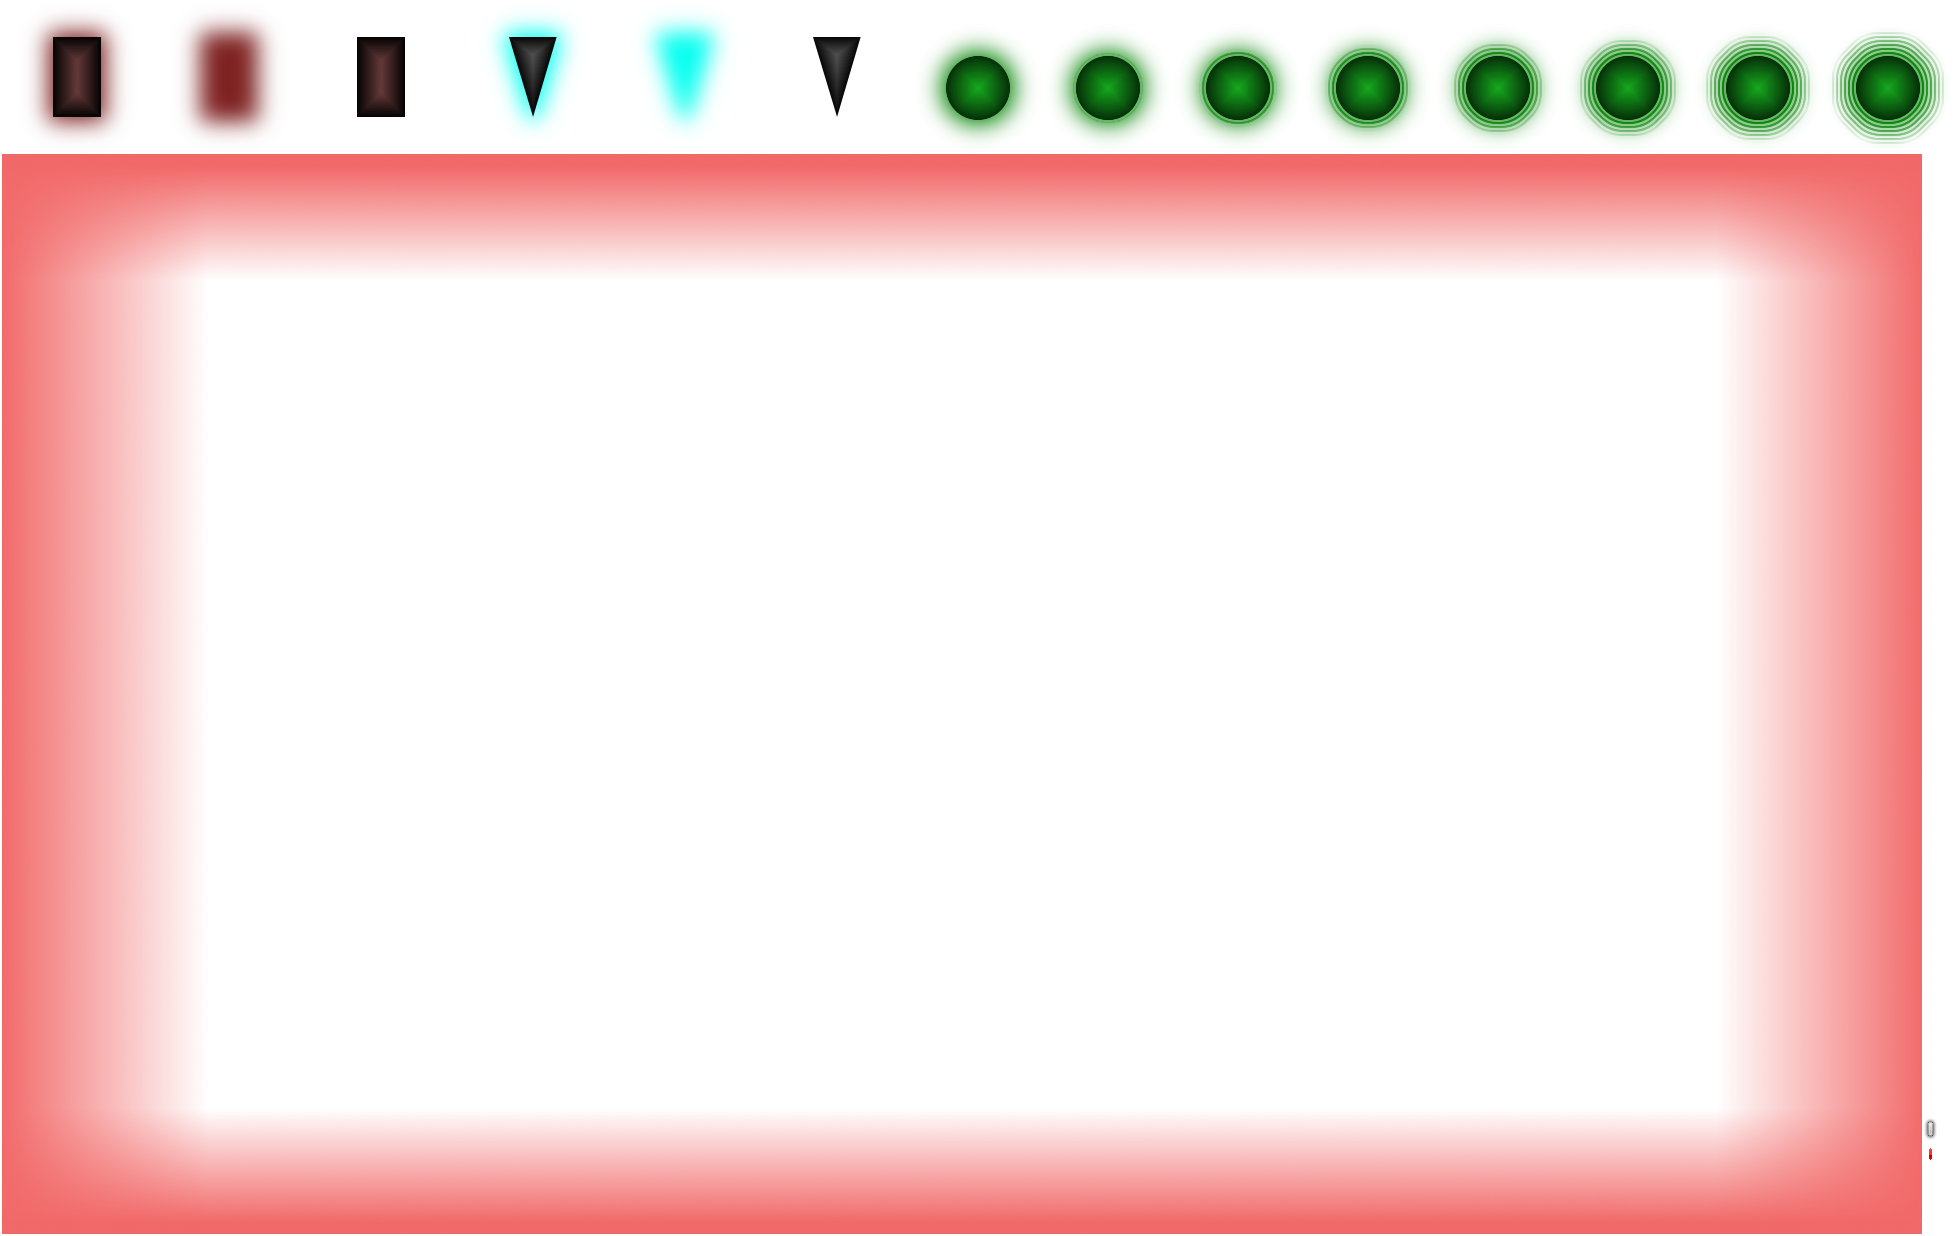
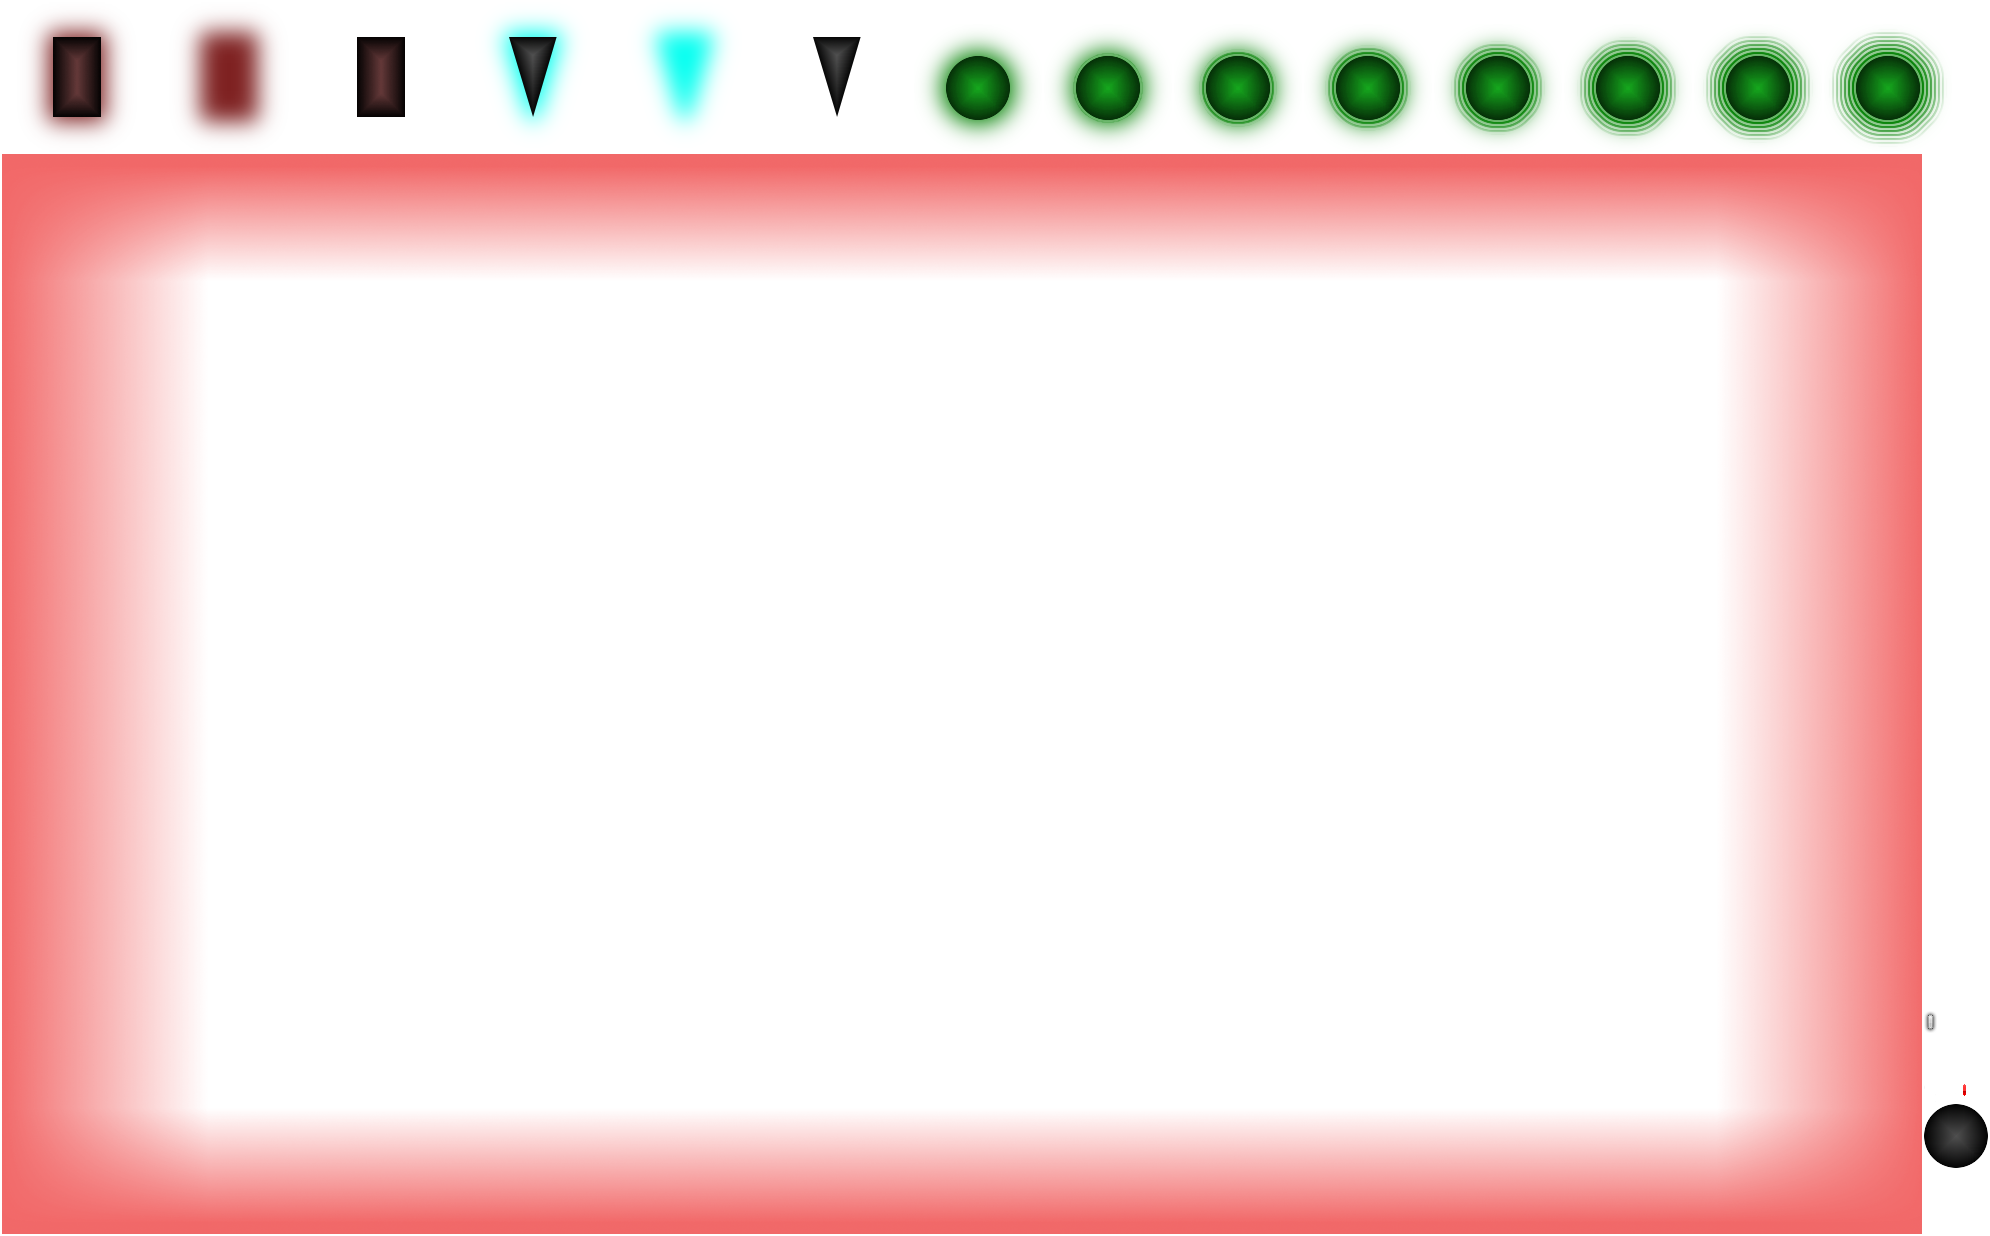
more skills

diff --git a/core/src/de/dakror/burst/game/entity/creature/Creature.java b/core/src/de/dakror/burst/game/entity/creature/Creature.java
@@ -12,7 +12,6 @@ import de.dakror.burst.Burst;
 import de.dakror.burst.game.Game;
 import de.dakror.burst.game.entity.Entity;
 import de.dakror.burst.game.skill.Skill;
-import de.dakror.burst.game.skill.TargetedSkill;
 import de.dakror.burst.util.MultiParticleEffectPool;
 
 /**
@@ -56,23 +55,8 @@ public abstract class Creature extends Entity
 			@Override
 			public boolean mouseMoved(InputEvent event, float x, float y)
 			{
-				if (Burst.smartCast && bump.contains(x, getHeight() - y)) activateSelectedSkill();
+				if (Burst.smartCast && bump.contains(x, getHeight() - y)) Game.player.activateSelectedSkill(Creature.this);
 				return false;
-			}
-			
-			void activateSelectedSkill()
-			{
-				Skill selectedSkill = Game.player.getSelectedSkill();
-				if (selectedSkill != null)
-				{
-					if (selectedSkill.canBeCastOn(Creature.this))
-					{
-						if (selectedSkill instanceof TargetedSkill) ((TargetedSkill) selectedSkill).setTarget(Creature.this);
-						
-						Game.player.setSkill(selectedSkill);
-						Game.player.setSelectedSkill(null);
-					}
-				}
 			}
 			
 			@Override
@@ -80,7 +64,7 @@ public abstract class Creature extends Entity
 			{
 				if (bump.contains(x, y))
 				{
-					if (Game.player.getSelectedSkill() != null) activateSelectedSkill();
+					if (Game.player.getSelectedSkill() != null) Game.player.activateSelectedSkill(Creature.this);
 					else if (Game.player != Creature.this) Game.player.requestAutoAttack(Creature.this);
 				}
 				return false;

diff --git a/core/src/de/dakror/burst/game/entity/creature/Player.java b/core/src/de/dakror/burst/game/entity/creature/Player.java
@@ -12,7 +12,9 @@ import de.dakror.burst.Burst;
 import de.dakror.burst.game.Game;
 import de.dakror.burst.game.entity.Entity;
 import de.dakror.burst.game.skill.Skill;
+import de.dakror.burst.game.skill.TargetedSkill;
 import de.dakror.burst.game.skill.skills.ShadowJump;
+import de.dakror.burst.game.skill.skills.ShurikenThrow;
 import de.dakror.burst.util.D;
 
 /**
@@ -136,6 +138,11 @@ public class Player extends Creature implements InputProcessor
 				selectedSkill = new ShadowJump(Player.this, null);
 				return true;
 			}
+			if (keycode == Keys.W)
+			{
+				selectedSkill = new ShurikenThrow(Player.this);
+				return true;
+			}
 		}
 		return false;
 	}
@@ -179,12 +186,27 @@ public class Player extends Creature implements InputProcessor
 	@Override
 	public boolean mouseMoved(int screenX, int screenY)
 	{
-		return false;
+		activateSelectedSkill(null);
+		return true;
 	}
 	
 	@Override
 	public boolean scrolled(int amount)
 	{
 		return false;
+	}
+	
+	public void activateSelectedSkill(Creature target)
+	{
+		if (selectedSkill != null)
+		{
+			if (target == null || selectedSkill.canBeCastOn(target))
+			{
+				if (selectedSkill instanceof TargetedSkill) ((TargetedSkill) selectedSkill).setTarget(target);
+				
+				setSkill(selectedSkill);
+				selectedSkill = null;
+			}
+		}
 	}
 }

diff --git a/core/src/de/dakror/burst/game/skill/actions/Actions.java b/core/src/de/dakror/burst/game/skill/actions/Actions.java
@@ -1,0 +1,40 @@
+package de.dakror.burst.game.skill.actions;
+
+import de.dakror.burst.game.entity.Entity;
+import de.dakror.burst.game.entity.creature.Creature;
+
+/**
+ * @author Dakror
+ */
+public class Actions
+{
+	public static EntityAction entity(Entity entity)
+	{
+		return new EntityAction(entity);
+	}
+	
+	public static AttackAction attack(Creature target)
+	{
+		return new AttackAction(target);
+	}
+	
+	public static AttackAction attack(int damage, Creature target)
+	{
+		return new AttackAction(damage, target);
+	}
+	
+	public static AttackAction attack(float ampl, Creature target)
+	{
+		return new AttackAction(ampl, target);
+	}
+	
+	public static ParticleAction particle(String name, float x, float y)
+	{
+		return particle(name, x, y, 0);
+	}
+	
+	public static ParticleAction particle(String name, float x, float y, int duration)
+	{
+		return new ParticleAction(name, x, y);
+	}
+}

diff --git a/core/src/de/dakror/burst/game/skill/skills/ShurikenThrow.java b/core/src/de/dakror/burst/game/skill/skills/ShurikenThrow.java
@@ -1,0 +1,27 @@
+package de.dakror.burst.game.skill.skills;
+
+import static com.badlogic.gdx.scenes.scene2d.actions.Actions.*;
+import static de.dakror.burst.game.skill.actions.Actions.*;
+import de.dakror.burst.game.entity.Entity;
+import de.dakror.burst.game.entity.creature.Creature;
+import de.dakror.burst.game.entity.projectile.projectiles.Shuriken;
+import de.dakror.burst.game.skill.Skill;
+
+/**
+ * @author Dakror
+ */
+public class ShurikenThrow extends Skill
+{
+	public ShurikenThrow(Creature source)
+	{
+		super(source);
+		
+		sequence = sequence(parallel(entity(new Shuriken(source, 1, 0)), entity(new Shuriken(source, 0, 1)), entity(new Shuriken(source, -1, 0)), entity(new Shuriken(source, 0, -1))));
+	}
+	
+	@Override
+	public boolean canBeCastOn(Entity e)
+	{
+		return true;
+	}
+}

diff --git a/core/src/de/dakror/burst/game/entity/projectile/Projectile.java b/core/src/de/dakror/burst/game/entity/projectile/Projectile.java
@@ -14,13 +14,18 @@ public class Projectile extends Entity
 	protected final Vector2 velocity = new Vector2();
 	protected boolean frozen;
 	
-	public Projectile(Creature source)
+	public Projectile(Creature source, float velocityX, float velocityY)
 	{
 		super(source.getX() + source.getWidth() / 2, source.getY() + source.getHeight() / 2);
-		
 		this.source = source;
 		
 		frozen = false;
+		velocity.set(velocityX, velocityY);
+	}
+	
+	public Projectile(Creature source)
+	{
+		this(source, 0, 0);
 	}
 	
 	@Override
@@ -29,6 +34,11 @@ public class Projectile extends Entity
 		super.act(delta);
 		
 		if (!frozen) moveBy(velocity.x * delta, velocity.y * delta);
+	}
+	
+	public void setVelocity(float vx, float vy)
+	{
+		velocity.set(vx, vy);
 	}
 	
 	public Vector2 getVelocity()

diff --git a/core/src/de/dakror/burst/game/entity/projectile/RangedProjectile.java b/core/src/de/dakror/burst/game/entity/projectile/RangedProjectile.java
@@ -1,0 +1,35 @@
+package de.dakror.burst.game.entity.projectile;
+
+import com.badlogic.gdx.math.Vector2;
+
+import de.dakror.burst.game.entity.creature.Creature;
+
+/**
+ * @author Dakror
+ */
+public class RangedProjectile extends Projectile
+{
+	float range, rangeDone;
+	final Vector2 tmp = new Vector2();
+	
+	public RangedProjectile(Creature source, float range, float velocityX, float velocityY)
+	{
+		super(source, velocityX, velocityY);
+		this.range = range;
+		rangeDone = 0;
+	}
+	
+	@Override
+	public void act(float delta)
+	{
+		super.act(delta);
+		
+		rangeDone += tmp.set(velocity).scl(delta).len();
+		if (rangeDone >= range) dead = true;
+	}
+	
+	public float getRange()
+	{
+		return range;
+	}
+}

diff --git a/core/src/de/dakror/burst/game/entity/projectile/TargetedProjectile.java b/core/src/de/dakror/burst/game/entity/projectile/TargetedProjectile.java
@@ -1,9 +1,8 @@
-package de.dakror.burst.game.entity.projectile.projectiles;
+package de.dakror.burst.game.entity.projectile;
 
 import com.badlogic.gdx.math.Vector2;
 
 import de.dakror.burst.game.entity.creature.Creature;
-import de.dakror.burst.game.entity.projectile.Projectile;
 
 /**
  * @author Dakror
@@ -14,9 +13,9 @@ public class TargetedProjectile extends Projectile
 	
 	final Vector2 tmp = new Vector2();
 	
-	public TargetedProjectile(Creature source, Creature target)
+	public TargetedProjectile(Creature source, Creature target, float velocityX, float velocityY)
 	{
-		super(source);
+		super(source, velocityX, velocityY);
 		
 		this.target = target;
 	}

diff --git a/core/src/de/dakror/burst/game/entity/projectile/projectiles/Shuriken.java b/core/src/de/dakror/burst/game/entity/projectile/projectiles/Shuriken.java
@@ -1,0 +1,18 @@
+package de.dakror.burst.game.entity.projectile.projectiles;
+
+import de.dakror.burst.Burst;
+import de.dakror.burst.game.entity.creature.Creature;
+import de.dakror.burst.game.entity.projectile.RangedProjectile;
+
+/**
+ * @author Dakror
+ */
+public class Shuriken extends RangedProjectile
+{
+	public Shuriken(Creature source, float velocityX, float velocityY)
+	{
+		super(source, 135, velocityX, velocityY);
+		
+		spriteFg = Burst.img.createSprite("circle");
+	}
+}

diff --git a/core/src/de/dakror/burst/game/skill/actions/EntityAction.java b/core/src/de/dakror/burst/game/skill/actions/EntityAction.java
@@ -1,0 +1,26 @@
+package de.dakror.burst.game.skill.actions;
+
+import com.badlogic.gdx.scenes.scene2d.Action;
+
+import de.dakror.burst.game.Game;
+import de.dakror.burst.game.entity.Entity;
+
+/**
+ * @author Dakror
+ */
+public class EntityAction extends Action
+{
+	Entity entity;
+	
+	public EntityAction(Entity entity)
+	{
+		this.entity = entity;
+	}
+	
+	@Override
+	public boolean act(float delta)
+	{
+		Game.instance.spawnEntity(entity);
+		return true;
+	}
+}

diff --git a/core/src/de/dakror/burst/game/skill/actions/AttackAction.java b/core/src/de/dakror/burst/game/skill/actions/AttackAction.java
@@ -47,19 +47,4 @@ public class AttackAction extends Action
 		}
 		return ((Creature) actor).attackDone;
 	}
-	
-	public static AttackAction attack(Creature target)
-	{
-		return new AttackAction(target);
-	}
-	
-	public static AttackAction attack(int damage, Creature target)
-	{
-		return new AttackAction(damage, target);
-	}
-	
-	public static AttackAction attack(float ampl, Creature target)
-	{
-		return new AttackAction(ampl, target);
-	}
 }

diff --git a/core/src/de/dakror/burst/game/skill/actions/ParticleAction.java b/core/src/de/dakror/burst/game/skill/actions/ParticleAction.java
@@ -33,14 +33,4 @@ public class ParticleAction extends Action
 		else ((Creature) actor).getParticles().add(name, x + actor.getX(), y + actor.getY(), duration);
 		return true;
 	}
-	
-	public static ParticleAction particle(String name, float x, float y)
-	{
-		return particle(name, x, y, 0);
-	}
-	
-	public static ParticleAction particle(String name, float x, float y, int duration)
-	{
-		return new ParticleAction(name, x, y);
-	}
 }

diff --git a/core/src/de/dakror/burst/game/skill/skills/ShadowJump.java b/core/src/de/dakror/burst/game/skill/skills/ShadowJump.java
@@ -1,8 +1,7 @@
 package de.dakror.burst.game.skill.skills;
 
 import static com.badlogic.gdx.scenes.scene2d.actions.Actions.*;
-import static de.dakror.burst.game.skill.actions.AttackAction.*;
-import static de.dakror.burst.game.skill.actions.ParticleAction.*;
+import static de.dakror.burst.game.skill.actions.Actions.*;
 
 import com.badlogic.gdx.math.Vector2;
 
